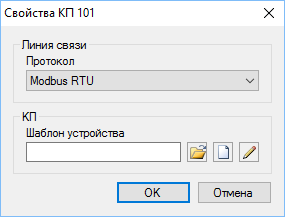
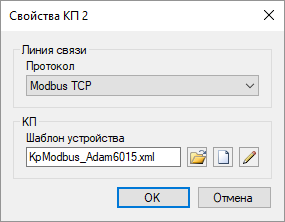
ScadaDoc: update modbus article (ru)

diff --git a/ScadaDoc/ScadaDoc/content/latest/ru/use-cases/modbus-protocol.html b/ScadaDoc/ScadaDoc/content/latest/ru/use-cases/modbus-protocol.html
@@ -13,7 +13,7 @@
 
     <p class="sd-article-meta">
         Автор Rapid SCADA, 10 мая 2012<br />
-        Обновление 16 октября 2017
+        Обновление 01 июля 2019
     </p>
 
     <p>На рынке представлено огромное количество устройств, работающих в самых разных областях автоматизации, которые поддерживают обмен данными по протоколу <a href="https://ru.wikipedia.org/wiki/Modbus" target="_blank">Modbus</a>. Modbus - это открытый коммуникационный протокол, использующий клиент-серверную модель, основанную на транзакциях, состоящих из запроса и ответа. Реализация поддержки протокола Modbus комплексом Rapid SCADA на порядок расширяет перечень устройств, с которыми может работать комплекс. Поддерживаются следующие режимы передачи данных: RTU, ASCII, TCP.</p>
@@ -21,21 +21,44 @@
     <p>Общая последовательность настройки:</p>
 
     <ol>
-        <li>Создать соответствующий объект, линию связи и КП в базе конфигурации с помощью программы Администратор.</li>
+        <li>Создать проект с помощью программы Администратор.</li>
+        <li>Создать новый объект, линию связи и КП.</li>
         <li>Настроить обмен данными между Коммуникатором и устройствами.</li>
-        <li>С помощью Администратора создать входные каналы в базе конфигурации, соответствующие элементам Modbus (элементы также называются переменными или тегами). Создать каналы управления, соответствующие командам.</li>
+        <li>Создать входные каналы в базе конфигурации, соответствующие элементам Modbus (элементы также называются переменными или тегами). Создать каналы управления, соответствующие командам.</li>
         <li>Создать одно или несколько представлений (таблиц или схем) для отображения информации в приложении Вебстанция. Прописать представления в базе конфигурации.</li>
     </ol>
 
-    <p>Далее приводится пошаговое описание подключения нового Modbus устройства. Чтобы процесс добавления устройства полностью совпадал с текстом статьи, необходимо установить Rapid SCADA с конфигурацией по умолчанию.</p>
+    <p>Далее приводится пошаговое описание подключения нового Modbus устройства. Чтобы процесс добавления устройства полностью совпадал с текстом статьи, необходимо использовать проект HelloWorld в качестве шаблона.</p>
+
+    <h2>Создание проекта</h2>
+
+    <p>В Администраторе нажмите конпку <em>Новый проект</em>, в открывшемся окне введите наименование проекта и выберите в качестве шаблона проект HelloWorld.rsproj, затем нажмите кнопку <em>OK</em>.</p>
+
+    <p class="sd-article-image">
+        <img src="modbus-protocol-files/modbus_new_proj_ru.png" alt="Создание проекта" /><br />
+        Рис. 1. Создание проекта
+    </p>
 
     <h2>Предварительная настройка базы конфигурации</h2>
 
-    <p>Редактирование базы конфигурации выполняется с помощью программы Администратор.</p>
+    <p>Разверните узел проводника проекта <em>База конфигурации</em>, откройте таблицу <em>Объекты</em> и добавьте новую строку для объекта 2 "Тестовый объект" (рис. 2). Щёлкните по кнопке <img src="../../common-images/add_line.png" /> на панели инструментов, чтобы открыть мастер добавления линии связи. С помощью мастера создайте линию связи 2 "Тестовая линия" (рис. 3). Затем нажмите кнопку <img src="../../common-images/add_device.png" /> и добавьте КП 2 "Тестовый КП" (рис. 4).</p>
 
-    <p>Запустите Администратор. Откройте таблицу <em>Объекты</em> и добавьте новую строку для объекта 2 "Тестовый объект" (рис. 1). Затем откройте таблицу <em>Линии связи</em> и добавьте линию 11 "Тестовая линия" (рис. 2). После чего откройте таблицу <em>КП</em> и добавьте КП 101 "Тестовый КП" (рис. 3).</p>
+    <p class="sd-article-image">
+        <img src="modbus-protocol-files/modbus_add_obj_ru.png" alt="Добавление объекта" /><br />
+        Рис. 2. Добавление объекта
+    </p>
 
-    <p>Для КП необходимо заполнить следующие поля (рис. 3):</p>
+    <p class="sd-article-image">
+        <img src="modbus-protocol-files/modbus_add_line_ru.png" alt="Добавление линии связи" /><br />
+        Рис. 3. Добавление линии связи
+    </p>
+
+    <p class="sd-article-image">
+        <img src="modbus-protocol-files/modbus_add_device_ru.png" alt="Добавление КП" /><br />
+        Рис. 4. Добавление КП
+    </p>
+
+    <p>Обратите внимание на заполнение следующих полей при добавлении КП:</p>
 
     <table class="sd-article-table">
         <tr>
@@ -56,47 +79,18 @@
         </tr>
     </table>
 
-    <p class="sd-article-image">
-        <img src="modbus-protocol-files/modbus_table_obj_ru.png" alt="Добавление объекта" /><br />
-        Рис. 1. Добавление объекта
-    </p>
-
-    <p class="sd-article-image">
-        <img src="modbus-protocol-files/modbus_table_commline_ru.png" alt="Добавление линии связи" /><br />
-        Рис. 2. Добавление линии связи
-    </p>
-
-    <p class="sd-article-image">
-        <img src="modbus-protocol-files/modbus_table_kp_ru.png" alt="Добавление КП" /><br />
-        Рис. 3. Добавление КП
-    </p>
-
-    <p>После того, как база конфигурации отредактирована, её необходимо передать Серверу, щёлкнув по кнопке <img src="../../common-images/pass.gif" />. Чтобы изменения вступили в силу, перезапустите службу Сервера с помощью кнопки <img src="../../common-images/restart_blue.gif" />.</p>
+    <p>Откройте таблицы <em>Линии связи</em> и <em>КП</em> базы конфигурации, чтобы проверить, что созданная линия связи и КП успешно добавлены в таблицы. Убедитесь, что соответствующая линия связи и КП созданы в настройках Коммуникатора.</p>
 
     <h2>Настройка обмена данными с устройствами</h2>
 
-    <p>Запустите Коммуникатор (точнее его графическую оболочку). При этом служба Сервера должна быть запущена.</p>
-
-    <p>Щёлкните правой кнопкой мыши по элементу дерева <em>Линии связи</em> и выберите в контекстном меню пункт <em>Импорт линий связи и КП</em> (рис. 4). В появившемся окне отметьте галочкой созданную линию связи и КП, после чего нажмите кнопку <em>Импорт</em> (рис. 5). Линия связи и КП появятся в Коммуникаторе.</p>
+    <p>В проводнике проекта перейдите в настройки Коммуникатора, разверните узел созданной линии связи и дважды щёлкните по элементу <em>Параметры линии</em>. На странице основных параметров необходимо настроить канал связи (рис. 5). Для протокола Modbus обычно используется канал <em>TCP-клиент</em> или <em>Последовательный порт</em>.</p>
 
     <p class="sd-article-image">
-        <img src="modbus-protocol-files/modbus_popup_commlines_ru.png" alt="Контекстное меню линий связи" /><br />
-        Рис. 4. Контекстное меню линий связи
+        <img src="modbus-protocol-files/modbus_line_main_ru.png" alt="Основные параметры линии связи" /><br />
+        Рис. 5. Основные параметры линии связи
     </p>
 
-    <p class="sd-article-image">
-        <img src="modbus-protocol-files/modbus_import_ru.png" alt="Выбор импортируемых КП" /><br />
-        Рис. 5. Выбор импортируемых КП
-    </p>
-
-    <p>Щёлкните в дереве по элементу Линия 11 "Тестовая линия" и на странице <em>Параметры линии связи</em> выберите и настройте канал связи, например, <em>Последовательный порт</em>. Поставьте галочку <em>Команды ТУ разрешены</em>, если необходимо управлять устройством (рис. 6).</p>
-
-    <p class="sd-article-image">
-        <img src="modbus-protocol-files/modbus_commline_ru.png" alt="Параметры линии связи" /><br />
-        Рис. 6. Параметры линии связи
-    </p>
-
-    <p>Типичные параметры последовательного порта в зависимости от типа протокола Modbus содержатся в следующей таблице.</p>
+    <p>Если обмен данными выполняется через последовательный порт, то типичные параметры последовательного порта в зависимости от типа протокола Modbus указаны в таблице ниже. В режимах RTU и ASCII необходимо установить одинаковую скорость передачи данных в Коммуникаторе и на устройствах. На одной линии связи все устройства должны работать по протоколу Modbus одного типа и с одной скоростью.</p>
 
     <table class="sd-article-table">
         <tr>
@@ -116,109 +110,119 @@
         </tr>
     </table>
 
-    <p>В режимах RTU и ASCII необходимо установить одинаковую скорость передачи данных в Коммуникаторе и на устройствах. На одной линии связи все устройства должны работать по протоколу Modbus одного типа и с одной скоростью.</p>
-
-    <p>Далее перейдите на страницу <em>Опрос КП</em> и выберите в таблице "Тестовый КП" (рис. 7). Если не указывать время или период опроса КП, то опрос устройств производится циклически. Команды отправляются сразу после завершения очередного опроса.</p>
+    <p>Далее перейдите на страницу <em>Опрос КП</em> и выберите в таблице "Тестовый КП" (рис. 6). Если не указывать время или период опроса КП, то опрос устройств производится циклически. Команды отправляются сразу после завершения очередного опроса.</p>
 
     <p class="sd-article-image">
-        <img src="modbus-protocol-files/modbus_request_ru.png" alt="Таблица опроса КП" /><br />
-        Рис. 7. Таблица опроса КП
+        <img src="modbus-protocol-files/modbus_line_req_ru.png" alt="Таблица опроса КП" /><br />
+        Рис. 6. Таблица опроса КП
     </p>
 
-    <p>Нажмите кнопку <img src="../../common-images/props.png" />, чтобы открыть форму настройки дополнительных свойств КП (рис. 8). На форме свойств КП необходимо выбрать тип протокола Modbus, который должен быть указан в документации на устройство.</p>
+    <p>Нажмите кнопку <em>Свойства</em>, чтобы открыть форму настройки дополнительных свойств КП (рис. 7). На форме свойств КП необходимо выбрать тип протокола Modbus, который должен быть указан в документации на устройство. В нашем случае Modbus TCP.</p>
 
     <p class="sd-article-image">
         <img src="modbus-protocol-files/modbus_device_props_ru.png" alt="Свойства КП" /><br />
-        Рис. 8. Свойства КП
+        Рис. 7. Свойства КП
     </p>
 
-    <p>Нажмите кнопку <img src="../../common-images/open.png" />, чтобы выбрать существующий шаблон устройства, или кнопку <img src="../../common-images/blank.png" />, чтобы создать новый шаблон. При нажатии на кнопку создания <img src="../../common-images/blank.png" /> или на кнопку редактирования шаблона <img src="../../common-images/edit.png" /> вызывается <em>Редактор шаблонов устройств</em> (рис. 9). В данной статье используется существующий шаблон KpModbus_Adam6015.xml.</p>
+    <p>Нажмите кнопку <img src="../../common-images/open.png" />, чтобы выбрать существующий шаблон устройства, или кнопку <img src="../../common-images/blank.png" />, чтобы создать новый шаблон. При нажатии на кнопку создания <img src="../../common-images/blank.png" /> или на кнопку редактирования шаблона <img src="../../common-images/edit.png" /> вызывается <em>Редактор шаблонов устройств</em> (рис. 8). В данной статье используется существующий шаблон KpModbus_Adam6015.xml, который был предварительно скопирован в директорию проекта C:\SCADA\Projects\ModbusTest\Instances\Default\ScadaComm\Config\</p>
 
     <p class="sd-article-image">
         <img src="modbus-protocol-files/modbus_template_ru.png" alt="Редактор шаблонов устройств" /><br />
-        Рис. 9. Редактор шаблонов устройств
+        Рис. 8. Редактор шаблонов устройств
     </p>
 
     <p>Шаблон устройства отражает структуру пакетов данных протокола Modbus. Данные, запрашиваемые от устройства, объединены в группы элементов (тегов). Группа элементов описывается наименованием, таблицей данных, адресом и количеством элементов. Для команд, если они поддерживаются устройством, необходимо задать наименование, таблицу данных, адрес и номер команды КП (от 1 и далее по порядку).</p>
 
-    <p>Наименования элементов и команд могут быть произвольными. Таблицы данных и адреса элементов должны содержаться в документации на подключаемое устройство. В зависимости от производителя адресация элементов может начинаться с 0 или с 1, указываться в 10-чной или 16-ричной системе. По умолчанию в шаблоне выбрана адресация с 1 в 10-чной системе. Чтобы переключить адресацию шаблона, нажмите на кнопку <img src="../../common-images/settings.png" />. Откроется диалоговое окно настроек шаблона (рис. 10).</p>
+    <p>Наименования элементов и команд могут быть произвольными. Таблицы данных и адреса элементов должны содержаться в документации на подключаемое устройство. В зависимости от производителя адресация элементов может начинаться с 0 или с 1, указываться в 10-чной или 16-ричной системе. По умолчанию в шаблоне выбрана адресация с 1 в 10-чной системе. Чтобы переключить адресацию шаблона, нажмите на кнопку <img src="../../common-images/settings.png" />. Откроется диалоговое окно настроек шаблона (рис. 9).</p>
 
     <p class="sd-article-image">
         <img src="modbus-protocol-files/modbus_template_settings_ru.png" alt="Настройки шаблона" /><br />
-        Рис. 10. Настройки шаблона
+        Рис. 9. Настройки шаблона
     </p>
 
-    <p>Для сохранения настроек Коммуникатора нажмите кнопку <img src="../../common-images/apply.png" />. Теперь можно запустить службу Коммуникатора с помощью кнопки <img src="../../common-images/start.png" /> и проверить связь с устройством.</p>
+    <p>Завершив редактирование свойств КП (рис. 7), нажмите кнопку <em>OK</em>. В поле <em>Командная строка</em> в свойствах КП запишется имя файла шаблона KpModbus_Adam6015.xml. Передайте проект на сервер с помощью кнопки <img src="../../common-images/upload.png" />.</p>
 
-    <p>Щёлкните элемент дерева КП 101 "Тестовый КП", чтобы проконтролировать состояние КП и наличие данных (рис. 11). Данные появятся не сразу после запуска, а после завершения первого опроса КП.</p>
+    <p>В проводнике проекта дважды щёлкните элемент дерева, соответствующий КП, чтобы проверить состояние КП и наличие данных (рис. 10). Данные для работы примера предоставлялись с помощью <a href="http://www.plcsimulator.org/" target="_blank">Modbus Simulator</a>.</p>
 
     <p class="sd-article-image">
         <img src="modbus-protocol-files/modbus_data_ru.png" alt="Данные КП" /><br />
-        Рис. 11. Данные КП
+        Рис. 10. Данные КП
     </p>
 
-    <p>При отсутствии связи с устройством используйте журнал линии связи для анализа причины проблемы. Чтобы открыть журнал, щёлкните по элементу дерева <em>Статистика линии связи</em> и перейдите на страницу <em>Журнал линии связи</em>. С помощью онлайн инструмента <a href="http://modbus.rapidscada.net/" target="_blank">Online Modbus Parser</a> можно получить расшифровку пакетов данных, скопировав их на веб-форму из журнала линии связи.</p>
+    <p>При отсутствии связи с устройством используйте журнал линии связи для поиска причины проблемы. Чтобы открыть журнал, дважды щёлкните по элементу дерева <em>Статистика линии</em>, в открывшемся окне перейдите на страницу <em>Журнал линии</em>. С помощью онлайн инструмента <a href="http://modbus.rapidscada.net/" target="_blank">Online Modbus Parser</a> можно получить расшифровку пакетов данных, скопировав их на веб-форму из журнала линии связи.</p>
 
-    <h2>Завершение настройки базы конфигурации</h2>
+    <h2>Создание каналов</h2>
 
-    <p>После того, как связь с устройством установлена, необходимо создать входные каналы и каналы управления в базе конфигурации. Для этого необходимо вновь открыть программу Администратор.</p>
+    <p>После того, как связь с устройством установлена, необходимо создать входные каналы и каналы управления в базе конфигурации. Наиболее удобный способ создания каналов - использовать мастер, вызываемый кнопкой <img src="../../common-images/create_cnls.png" />. Если в систему добавляется несколько однотипных устройств, то ускорить работу можно с помощью инструмента клонирования каналов.</p>
 
-    <p>Сервис автоматического создания каналов поможет сэкономить время. Выберите в главном меню программы <em>Сервис &gt; Создание каналов</em>.</p>
-
-    <p>На открывшейся форме (рис. 12) выберите в выпадающем списке "Тестовая линия", затем поставьте галочку напротив "Тестового КП", а также установите "Тестовый объект" в столбце <em>Объект</em>. Задайте параметры нумерации каналов, если хотите, чтобы создаваемые каналы имели удобные для работы номера. Нажмите сначала кнопку <em>Рассчитать номера каналов</em>, затем кнопку <em>Создать</em>.</p>
+    <p>Выполните шаги мастера (рис. 11-13), выбрав из выпадающих списков созданные ранее линию связи, КП и объект. Чтобы проверить, какие номера каналов доступны, используйте карту каналов на шаге 3.</p>
 
     <p class="sd-article-image">
-        <img src="modbus-protocol-files/modbus_create_cnls_ru.png" alt="Создание каналов" /><br />
-        Рис. 12. Создание каналов
+        <img src="modbus-protocol-files/modbus_create_cnls1_ru.png" alt="Создание каналов. Шаг 1" /><br />
+        Рис. 11. Создание каналов. Шаг 1
     </p>
 
-    <p>Каналы создаются автоматически на основе шаблона устройства, который был создан и назначен КП в предыдущем разделе статьи. Посмотреть созданные каналы можно, щёлкнув в Администраторе по элементу дерева <em>Входные каналы &gt; Тестовый КП</em> или <em>Каналы управления &gt; Тестовый КП</em>. Рекомендуется вручную заполнить поля <em>Величина</em> и <em>Размерность</em> для входных каналов и поле <em>Значения команды</em> для каналов управления. Однако в случае первого опыта это делать необязательно.</p>
-
-    <p>Полезно понимать, что входные каналы привязываются к тегам КП с помощью поля <em>Сигнал</em>. Каналы управления привязываются к командам КП в соответствии с полем <em>Номер команды</em>.</p>
-
-    <p>После того, как редактирование базы конфигурации завершено, следует нажать кнопку <img src="../../common-images/pass.gif" /> для передачи изменений Серверу, перезапустить Сервер и Коммуникатор с помощью кнопок <img src="../../common-images/restart_blue.gif" /> и <img src="../../common-images/restart_yellow.gif" />.</p>
-
-    <p>Откройте страницу <em>Данные КП</em> в Коммуникаторе и убедитесь, что созданные входные каналы связаны с тегами КП – столбец <em>Канал</em> должен содержать номера созданных входных каналов (рис. 13).</p>
+    <p class="sd-article-image">
+        <img src="modbus-protocol-files/modbus_create_cnls2_ru.png" alt="Создание каналов. Шаг 2" /><br />
+        Рис. 12. Создание каналов. Шаг 2
+    </p>
 
     <p class="sd-article-image">
-        <img src="modbus-protocol-files/modbus_data_with_cnls_ru.png" alt="Данные КП с привязкой каналов" /><br />
-        Рис. 13. Данные КП с привязкой каналов
+        <img src="modbus-protocol-files/modbus_create_cnls3_ru.png" alt="Создание каналов. Шаг 3" /><br />
+        Рис. 13. Создание каналов. Шаг 3
+    </p>
+
+    <p>При нажатии на кнопку <em>Создать</em> каналы будут созданы. Каналы создаются автоматически на основе шаблона устройства, который был создан и назначен КП в предыдущем разделе статьи. Посмотреть созданные каналы можно, открыв таблицу базы конфигурации <em>Входные каналы &gt; Тестовый КП</em> или <em>Каналы управления &gt; Тестовый КП</em>. Рекомендуется вручную заполнить поля <em>Величина</em> и <em>Размерность</em> для входных каналов и поле <em>Значения команды</em> для каналов управления. Однако в случае первого опыта это делать необязательно. Полезно понимать, что входные каналы привязываются к тегам КП с помощью поля <em>Сигнал</em>. Каналы управления привязываются к командам КП в соответствии с полем <em>Номер команды</em>.</p>
+
+    <p>После того, как редактирование базы конфигурации завершено, следует передать проект на сервер с помощью кнопки <img src="../../common-images/upload.png" />. Теперь откройте страницу данных КП в настройках Коммуникатора и убедитесь, что созданные входные каналы связаны с тегами КП – столбец <em>Канал</em> должен содержать номера созданных входных каналов (рис. 14).</p>
+
+    <p class="sd-article-image">
+        <img src="modbus-protocol-files/modbus_data_bound_ru.png" alt="Данные КП с привязкой каналов" /><br />
+        Рис. 14. Данные КП с привязкой каналов
     </p>
 
     <p>В результате проделанных действий данные должны собираться с устройства и сохраняться в архив. Осталось настроить пользовательский интерфейс оператора.</p>
 
     <h2>Настройка интерфейса оператора</h2>
 
-    <p>Рассмотрим создание табличного представления для приложения Вебстанция. Для этого нам понадобится программа Редактор таблиц (если необходимо отобразить данные на мнемосхеме, то вместо редактора таблиц используйте Редактор схем).</p>
+    <p>Рассмотрим создание табличного представления для приложения Вебстанция. Если необходимо отобразить данные на мнемосхеме, действия по созданию представления будут аналогичны.</p>
 
-    <p>Откройте Редактор таблиц и заполните табличное представление, как показано на рис. 14. Добавить канал в таблицу (из левой части окна в правую) можно по кнопке <img src="../../common-images/plus.png" />, двойному щелчку на строке канала или по клавише Enter.</p>
-
-    <p>Сохраните созданное табличное представление в файл с именем TestTable.tbl в папку C:\SCADA\Interface\Test. Обратите внимание, что имена папок и файлов представлений должны содержать только латинские символы.</p>
+    <p>Щёлкните правой кнопкой на папке <em>HelloWorld</em> в разделе <em>Интерфейс</em> проводника проекта. В контекстном меню выберите <em>Создать файл</em> (рис. 15). Затем в открывшемся окне установите табличный тип представления, укажите имя файла ModbusDevice.tbl и нажмите кнопку <em>OK</em> (рис. 16).</p>
 
     <p class="sd-article-image">
-        <img src="modbus-protocol-files/modbus_table_editor_ru.png" alt="Редактор таблиц" /><br />
-        Рис. 14. Редактор таблиц
+        <img src="modbus-protocol-files/modbus_interface_menu_ru.png" alt="Меню для создания представления" /><br />
+        Рис. 15. Меню для создания представления
     </p>
-
-    <p>Далее, чтобы табличное представление появилось в веб-приложении, его необходимо прописать в базе конфигурации в таблице <em>Интерфейс</em> с помощью программы Администратор, как показано на рис. 15.</p>
 
     <p class="sd-article-image">
-        <img src="modbus-protocol-files/modbus_table_itf_ru.png" alt="Добавление представления в таблицу Интерфейс" /><br />
-        Рис. 15. Добавление представления в таблицу Интерфейс
+        <img src="modbus-protocol-files/modbus_interface_file_ru.png" alt="Диалог для создания представления" /><br />
+        Рис. 16. Диалог для создания представления
     </p>
 
-    <p>Чтобы сделанные изменения вступили в силу, необходимо передать базу Серверу с помощью кнопки <img src="../../common-images/pass.gif" /> и перезапустить службу Сервера кнопкой <img src="../../common-images/restart_blue.gif" />.</p>
+    <p>Созданный файл представления появится в проводнике проекта. По двойному щелчку на элементе дерева откроется <a href="../software-overview/applications/table-editor-application.html">Редактор таблиц</a>. Необходимо ввести наименование и заполнить элементы представления, как показано на рис. 17. Сохраните изменения и закройте редактор.</p>
 
-    <p>Теперь запустите браузер и введите адрес <a href="http://localhost/scada/" target="_blank">http://localhost/scada/</a>. На форме входа в систему используйте логин admin и пароль 12345 (рис. 16). Если настройка выполнена правильно, то после входа в систему Вам будет доступна таблица с получаемыми от устройства данными (рис. 17).</p>
+    <p class="sd-article-image">
+        <img src="modbus-protocol-files/modbus_table_editor_ru.png" alt="Редактирование представления" /><br />
+        Рис. 17. Редактирование представления
+    </p>
+
+    <p>После того, как файл представления создан, его необходимо прописать в базе конфигурации в таблице Интерфейс (рис. 18).</p>
+
+    <p class="sd-article-image">
+        <img src="modbus-protocol-files/modbus_interface_table_ru.png" alt="Добавление представления в таблицу Интерфейс" /><br />
+        Рис. 18. Добавление представления в таблицу Интерфейс
+    </p>
+
+    <p>Передайте проект на сервер с помощью кнопки <img src="../../common-images/upload.png" />. Теперь запустите браузер и введите адрес <a href="http://localhost/scada/" target="_blank">http://localhost/scada/</a>. На форме входа в систему используйте логин admin и пароль 12345 (рис. 19). Если настройка выполнена правильно, то после входа в систему Вам будет доступна таблица с получаемыми от устройства данными (рис. 20).</p>
 
     <p class="sd-article-image">
         <img src="modbus-protocol-files/modbus_web1_ru.png" alt="Вход в систему" /><br />
-        Рис. 16. Вход в систему
+        Рис. 19. Вход в систему
     </p>
 
     <p class="sd-article-image">
         <img src="modbus-protocol-files/modbus_web2_ru.png" alt="Приложение Вебстанция" /><br />
-        Рис. 17. Приложение Вебстанция
+        Рис. 20. Приложение Вебстанция
     </p>
 
     <h2>Преобразование значений тегов Modbus</h2>
